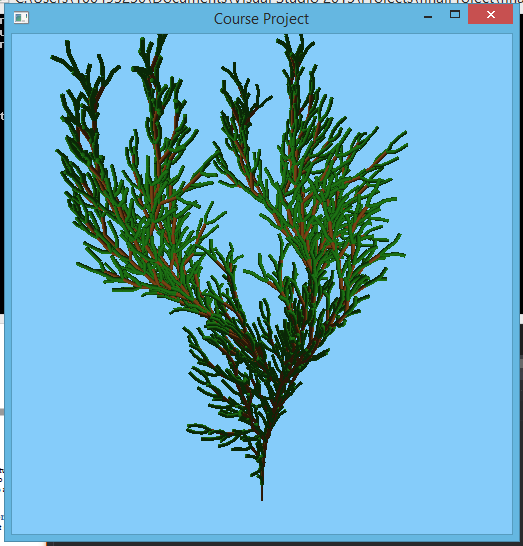
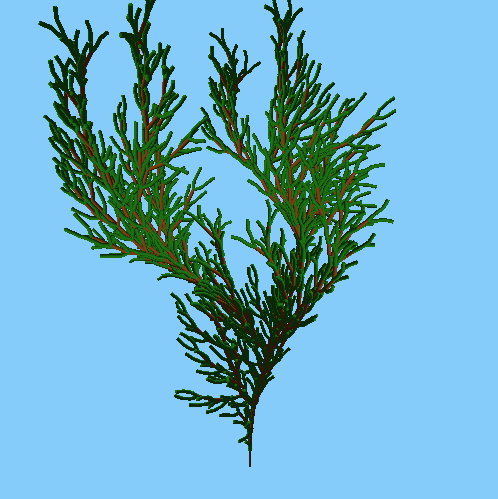
Updated readme and cropped images

diff --git a/README.md b/README.md
@@ -1,9 +1,8 @@
 # l-system-trees
 OpenGL program which draws trees using L-systems and turtle graphics
 
-## Build Instructions
-The project can be built using Visual Studio by opening finalProject.vcxproj and building
-the project.
+## Dependencies
+Requires GLEW, GLUT and GLM libraries.
 
 ## Running Instructions
 To run the program, it requires one command line argument which is the filename of
